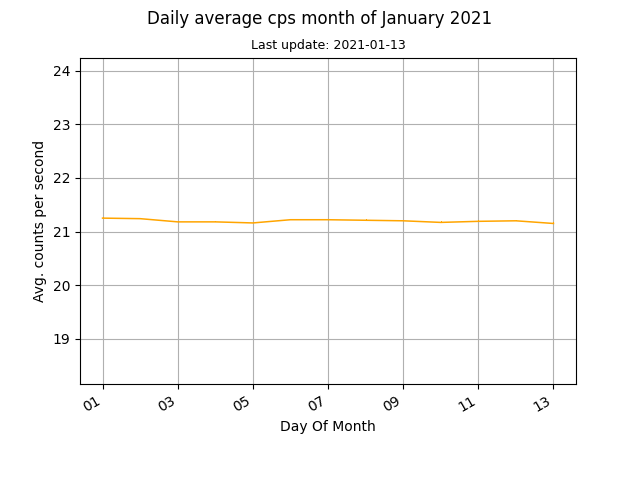
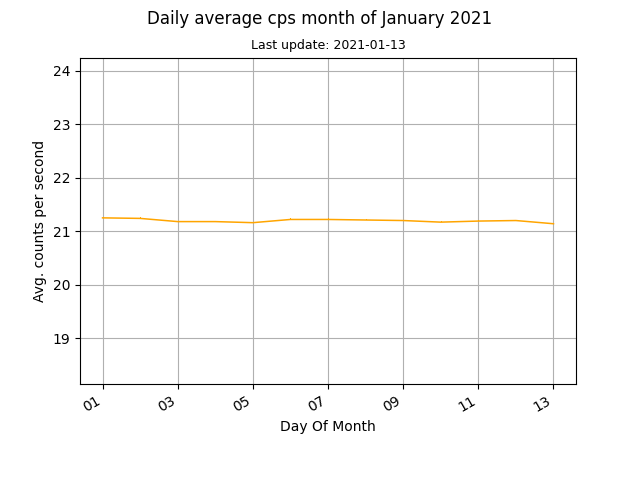
auto data update

Changed region(s): [[0.125, 0.4375, 0.9062, 0.5], [0.125, 0.6875, 0.9062, 0.7188]]

diff --git a/docs/index.html b/docs/index.html
@@ -45,8 +45,8 @@
 	
 	<br>
 	
-	<p>Current counts per second (cps): 21.28</p>
-	<p>Last update: 2021-01-13, 15:26</p>
+	<p>Current counts per second (cps): 21.02</p>
+	<p>Last update: 2021-01-13, 15:41</p>
 
 	<p><a href="images/monthly.png"><img src="images/monthly.png" alt="Mothly avg cps data"></a><a href="images/daily.png"><img src="images/daily.png" alt="Daily avg cps data"></a></p>
 	
